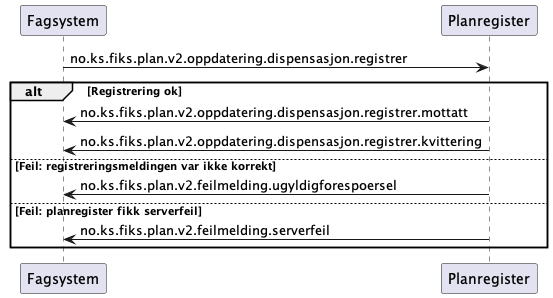
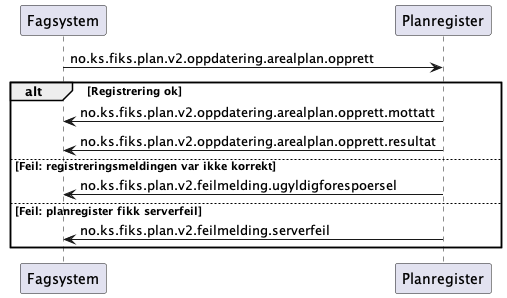
Oppdatert diagrammer

diff --git a/Dokumentasjon/V2/SequenceDiagrams/no.ks.fiks.plan.v2.oppdatering.dispensasjon.registrer/README.md b/Dokumentasjon/V2/SequenceDiagrams/no.ks.fiks.plan.v2.oppdatering.dispensasjon.registrer/README.md
@@ -3,7 +3,7 @@
 **Meldinger**:
 - `no.ks.fiks.plan.v2.oppdatering.dispensasjon.registrer`
 - `no.ks.fiks.plan.v2.oppdatering.dispensasjon.registrer.mottatt`
-- `no.ks.fiks.plan.v2.oppdatering.dispensasjon.registrer.kvittering`
+- `no.ks.fiks.plan.v2.oppdatering.dispensasjon.registrer.resultat`
 
 **Feilmeldinger**:
 - `no.ks.fiks.plan.v2.feilmeldinger.ugyldigforespoersel`

diff --git a/Dokumentasjon/V2/SequenceDiagrams/no.ks.fiks.plan.v2.oppdatering.arealplan.opprett/README.md b/Dokumentasjon/V2/SequenceDiagrams/no.ks.fiks.plan.v2.oppdatering.arealplan.opprett/README.md
@@ -3,7 +3,7 @@
 **Meldinger**:
 - `no.ks.fiks.plan.v2.oppdatering.arealplan.opprett`
 - `no.ks.fiks.plan.v2.oppdatering.arealplan.opprett.mottatt`
-- `no.ks.fiks.plan.v2.oppdatering.arealplan.opprett.kvittering`
+- `no.ks.fiks.plan.v2.oppdatering.arealplan.opprett.resultat`
 
 **Feilmeldinger**:
 - `no.ks.fiks.plan.v2.feilmeldinger.ugyldigforespoersel`
